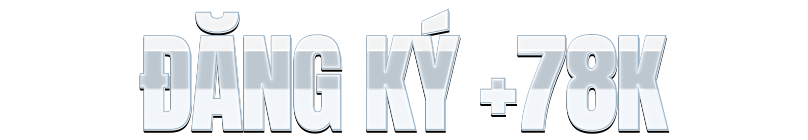
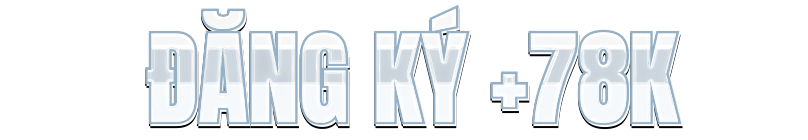
Update

Changed region(s): [[0.1547, 0.0286, 0.8663, 0.9714]]

diff --git a/index.html b/index.html
@@ -6,7 +6,7 @@
 
 <head>
     <meta charset="UTF-8">
-    <title>TRANG CHỦ F8BET</title>
+    <title>VND789</title>
     <meta http-equiv="Cache-Control" content="no-cache">
     <meta http-equiv="X-UA-Compatible" content="IE=edge">
     <meta http-equiv="Expires" content="-1">
@@ -56,7 +56,7 @@
     </script>
     <link rel="canonical" href="https://preview.ldpdemo.com/6817717a4984ea00a4caedee" />
     <meta property="og:url" content="http://preview.ldpdemo.com/6817717a4984ea00a4caedee" />
-    <meta property="og:title" content="TRANG CHỦ F8BET" />
+    <meta property="og:title" content="VND789" />
     <meta property="og:type" content="website" />
     <meta property="og:description" content="PHIÊN BẢN PRO 2025 - 2" />
     <meta name="format-detection" content="telephone=no" />
@@ -912,7 +912,8 @@
         }
 
         #IMAGE11>.ladi-image>.ladi-image-background {
-            background-image: url("./w.ladicdn.com/s500x400/66f1588fc4be0b0074e1c09a/f8bet_1-20250103044418-oihya.png");
+            /* background-image: url("./w.ladicdn.com/s500x400/66f1588fc4be0b0074e1c09a/f8bet_1-20250103044418-oihya.png"); */
+            background-image: url("./w.ladicdn.com/images/avatar-5.png");
         }
 
         #IMAGE19>.ladi-image>.ladi-image-background {
@@ -1062,20 +1063,14 @@
 
             #IMAGE11 {
                 width: 171px;
-                height: 71.25px;
-                top: 0px;
+                height: 75px;
                 left: 384.5px;
-            }
-
-            #IMAGE11>.ladi-image>.ladi-image-background {
-                width: 171px;
-                height: 71.25px;
             }
 
             #IMAGE19 {
                 width: 200px;
                 height: 55.9767px;
-                top: 86.9673px;
+                top: 90px;
                 left: 379.998px;
             }
 
@@ -1098,42 +1093,45 @@
             }
 
             #IMAGE12 {
-                width: 573.019px;
+                width: 727px;
                 height: 138.056px;
-                top: 690.044px;
-                left: 183.49px;
+                top: 730.044px;
+                left: 89.49px;
             }
 
             #IMAGE12>.ladi-image>.ladi-image-background {
-                width: 573.019px;
+                /* width: 573.019px;
                 height: 138.056px;
-                background-image: url("./w.ladicdn.com/s900x450/66f1588fc4be0b0074e1c09a/nap-dau-thuong-100-1_0004_vector-smart-object-20250330075300-rwazr.png");
+                background-image: url("./w.ladicdn.com/s900x450/66f1588fc4be0b0074e1c09a/nap-dau-thuong-100-1_0004_vector-smart-object-20250330075300-rwazr.png"); */
+                background-image: url("./w.ladicdn.com/images/image-5.png");
             }
 
             #IMAGE18 {
-                width: 378.896px;
+                width: 480.896px;
                 height: 78.3646px;
                 top: 377.435px;
                 left: 677px;
             }
 
             #IMAGE18>.ladi-image>.ladi-image-background {
-                width: 378.896px;
-                height: 78.3646px;
-                background-image: url("./w.ladicdn.com/s700x400/66f1588fc4be0b0074e1c09a/mau_0002_layer-3-20250416132836-ydxvw.png");
+                /* width: 378.896px;
+                height: 78.3646px; */
+                /* background-image: url("./w.ladicdn.com/s700x400/66f1588fc4be0b0074e1c09a/mau_0002_layer-3-20250416132836-ydxvw.png"); */
+                background-image: url("./w.ladicdn.com/images/image-4.png");
             }
 
             #IMAGE17 {
-                width: 385.16px;
+                width: 410.16px;
                 height: 71.435px;
-                top: 440px;
-                left: -69.464px;
+                top: 450px;
+                left: -90.464px;
             }
 
             #IMAGE17>.ladi-image>.ladi-image-background {
-                width: 385.16px;
+                /* width: 385.16px;
                 height: 71.435px;
-                background-image: url("./w.ladicdn.com/s700x400/66f1588fc4be0b0074e1c09a/mau_0001_layer-4-20250416132836-sy8rw.png");
+                background-image: url("./w.ladicdn.com/s700x400/66f1588fc4be0b0074e1c09a/mau_0001_layer-4-20250416132836-sy8rw.png"); */
+                background-image: url("./w.ladicdn.com/images/image-2.png");
             }
 
             #BUTTON7 {
@@ -1144,7 +1142,8 @@
             }
 
             #BUTTON7>.ladi-button>.ladi-button-background {
-                background-image: url("./w.ladicdn.com/s414x92/66f1588fc4be0b0074e1c09a/4-20250409141345-x1uiw.png");
+                /* background-image: url("./w.ladicdn.com/s414x92/66f1588fc4be0b0074e1c09a/4-20250409141345-x1uiw.png"); */
+                background-image: url("./w.ladicdn.com/images/image-1.png");
             }
         }
 
@@ -1176,14 +1175,9 @@
 
             #IMAGE11 {
                 width: 172.8px;
-                height: 72px;
+                height: 75px;
                 top: 9px;
                 left: 127.2px;
-            }
-
-            #IMAGE11>.ladi-image>.ladi-image-background {
-                width: 172.8px;
-                height: 72px;
             }
 
             #IMAGE19 {
@@ -1201,7 +1195,7 @@
             #IMAGE21 {
                 width: 407.08px;
                 height: 304.701px;
-                top: 468.722px;
+                top: 450.722px;
                 left: 10.06px;
             }
 
@@ -1212,42 +1206,45 @@
             }
 
             #IMAGE12 {
-                width: 382.626px;
+                width: 485.626px;
                 height: 92.1851px;
-                top: 717.644px;
-                left: 18.687px;
+                top: 730.644px;
+                left: -55.313px;
             }
 
             #IMAGE12>.ladi-image>.ladi-image-background {
-                width: 382.626px;
+                /* width: 382.626px;
                 height: 92.1851px;
-                background-image: url("./w.ladicdn.com/s700x400/66f1588fc4be0b0074e1c09a/nap-dau-thuong-100-1_0004_vector-smart-object-20250330075300-rwazr.png");
+                background-image: url("./w.ladicdn.com/s700x400/66f1588fc4be0b0074e1c09a/nap-dau-thuong-100-1_0004_vector-smart-object-20250330075300-rwazr.png"); */
+                background-image: url("./w.ladicdn.com/images/image-5.png");
             }
 
             #IMAGE18 {
-                width: 243.515px;
+                width: 290.515px;
                 height: 50.3646px;
                 top: 296.5px;
                 left: 0px;
             }
 
             #IMAGE18>.ladi-image>.ladi-image-background {
-                width: 243.515px;
+                /* width: 243.515px;
                 height: 50.3646px;
-                background-image: url("./w.ladicdn.com/s550x400/66f1588fc4be0b0074e1c09a/mau_0002_layer-3-20250416132836-ydxvw.png");
+                background-image: url("./w.ladicdn.com/s550x400/66f1588fc4be0b0074e1c09a/mau_0002_layer-3-20250416132836-ydxvw.png"); */
+                background-image: url("./w.ladicdn.com/images/image-4.png");
             }
 
             #IMAGE17 {
                 width: 237.742px;
                 height: 44.0937px;
                 top: 371.136px;
-                left: 173.798px;
+                left: 170.798px;
             }
 
             #IMAGE17>.ladi-image>.ladi-image-background {
-                width: 237.742px;
+                /* width: 237.742px;
                 height: 44.0937px;
-                background-image: url("./w.ladicdn.com/s550x350/66f1588fc4be0b0074e1c09a/mau_0001_layer-4-20250416132836-sy8rw.png");
+                background-image: url("./w.ladicdn.com/s550x350/66f1588fc4be0b0074e1c09a/mau_0001_layer-4-20250416132836-sy8rw.png"); */
+                background-image: url("./w.ladicdn.com/images/image-2.png");
             }
 
             #BUTTON7 {
@@ -1258,7 +1255,8 @@
             }
 
             #BUTTON7>.ladi-button>.ladi-button-background {
-                background-image: url("./w.ladicdn.com/s340x75/66f1588fc4be0b0074e1c09a/4-20250409141345-x1uiw.png");
+                /* background-image: url("./w.ladicdn.com/s340x75/66f1588fc4be0b0074e1c09a/4-20250409141345-x1uiw.png"); */
+                background-image: url("./w.ladicdn.com/images/image-1.png");
             }
         }
     </style>
@@ -1289,7 +1287,24 @@
         }
     </style>
     
-
+    <!-- Meta Pixel Code -->
+    <script>
+        !function (f, b, e, v, n, t, s) {
+            if (f.fbq) return; n = f.fbq = function () {
+                n.callMethod ?
+                n.callMethod.apply(n, arguments) : n.queue.push(arguments)
+            };
+            if (!f._fbq) f._fbq = n; n.push = n; n.loaded = !0; n.version = '2.0';
+            n.queue = []; t = b.createElement(e); t.async = !0;
+            t.src = v; s = b.getElementsByTagName(e)[0];
+            s.parentNode.insertBefore(t, s)
+        }(window, document, 'script',
+            'https://connect.facebook.net/en_US/fbevents.js');
+        fbq('init', '417092643975166');
+        fbq('track', 'PageView');
+    </script>
+    <noscript><img height="1" width="1" style="display:none" src="https://www.facebook.com/tr?id=417092643975166&ev=PageView&noscript=1" /></noscript>
+    <!-- End Meta Pixel Code -->
 </head>
 
 <body class="lazyload">
@@ -1336,7 +1351,7 @@
                     <div class='ladi-image'>
                         <div class="ladi-image-background"></div>
                     </div>
-                </div><a href="https://vf8bet3.cc/Register?f=5905631" target="_blank" id="BUTTON7" class='ladi-element'>
+                </div><a href="https://vnd789.net/af/831ug0R2/789winvip" target="_blank" id="BUTTON7" class='ladi-element'>
                     <div class='ladi-button'>
                         <div class="ladi-button-background"></div>
                         <div id="BUTTON_TEXT7" class='ladi-element ladi-button-headline'>
@@ -1355,7 +1370,7 @@
                         <div class="ladi-overlay"></div>
                         <div id="HEADLINE5" class='ladi-element'>
                             <h3 class='ladi-headline'>BẠN CÓ TRÊN 18+ KHÔNG</h3>
-                        </div><a href="https://vf8bet3.cc/Register?f=5905631" target="_blank" id="BUTTON3"
+                        </div><a href="https://vnd789.net/af/831ug0R2/789winvip" target="_blank" id="BUTTON3"
                             class='ladi-element'>
                             <div class='ladi-button'>
                                 <div class="ladi-button-background"></div>
@@ -1363,7 +1378,7 @@
                                     <p class='ladi-headline'>CÓ</p>
                                 </div>
                             </div>
-                        </a><a href="https://vf8bet3.cc/Register?f=5905631" target="_blank" id="BUTTON4"
+                        </a><a href="https://vnd789.net/af/831ug0R2/789winvip" target="_blank" id="BUTTON4"
                             class='ladi-element'>
                             <div class='ladi-button'>
                                 <div class="ladi-button-background"></div>
@@ -1494,7 +1509,7 @@
                 "cs": [{
                     "dr": "action",
                     "dv": "_blank",
-                    "dw": "https://vf8bet3.cc/Register?f=5905631",
+                    "dw": "https://vnd789.net/af/831ug0R2/789winvip",
                     "a": "link"
                 }]
             },
@@ -1503,7 +1518,7 @@
                 "cs": [{
                     "dr": "action",
                     "dv": "_blank",
-                    "dw": "https://vf8bet3.cc/Register?f=5905631",
+                    "dw": "https://vnd789.net/af/831ug0R2/789winvip",
                     "a": "link"
                 }]
             },
@@ -1512,7 +1527,7 @@
                 "cs": [{
                     "dr": "action",
                     "dv": "_blank",
-                    "dw": "https://vf8bet3.cc/Register?f=5905631",
+                    "dw": "https://vnd789.net/af/831ug0R2/789winvip",
                     "a": "link"
                 }],
                 "F": "pulse",
